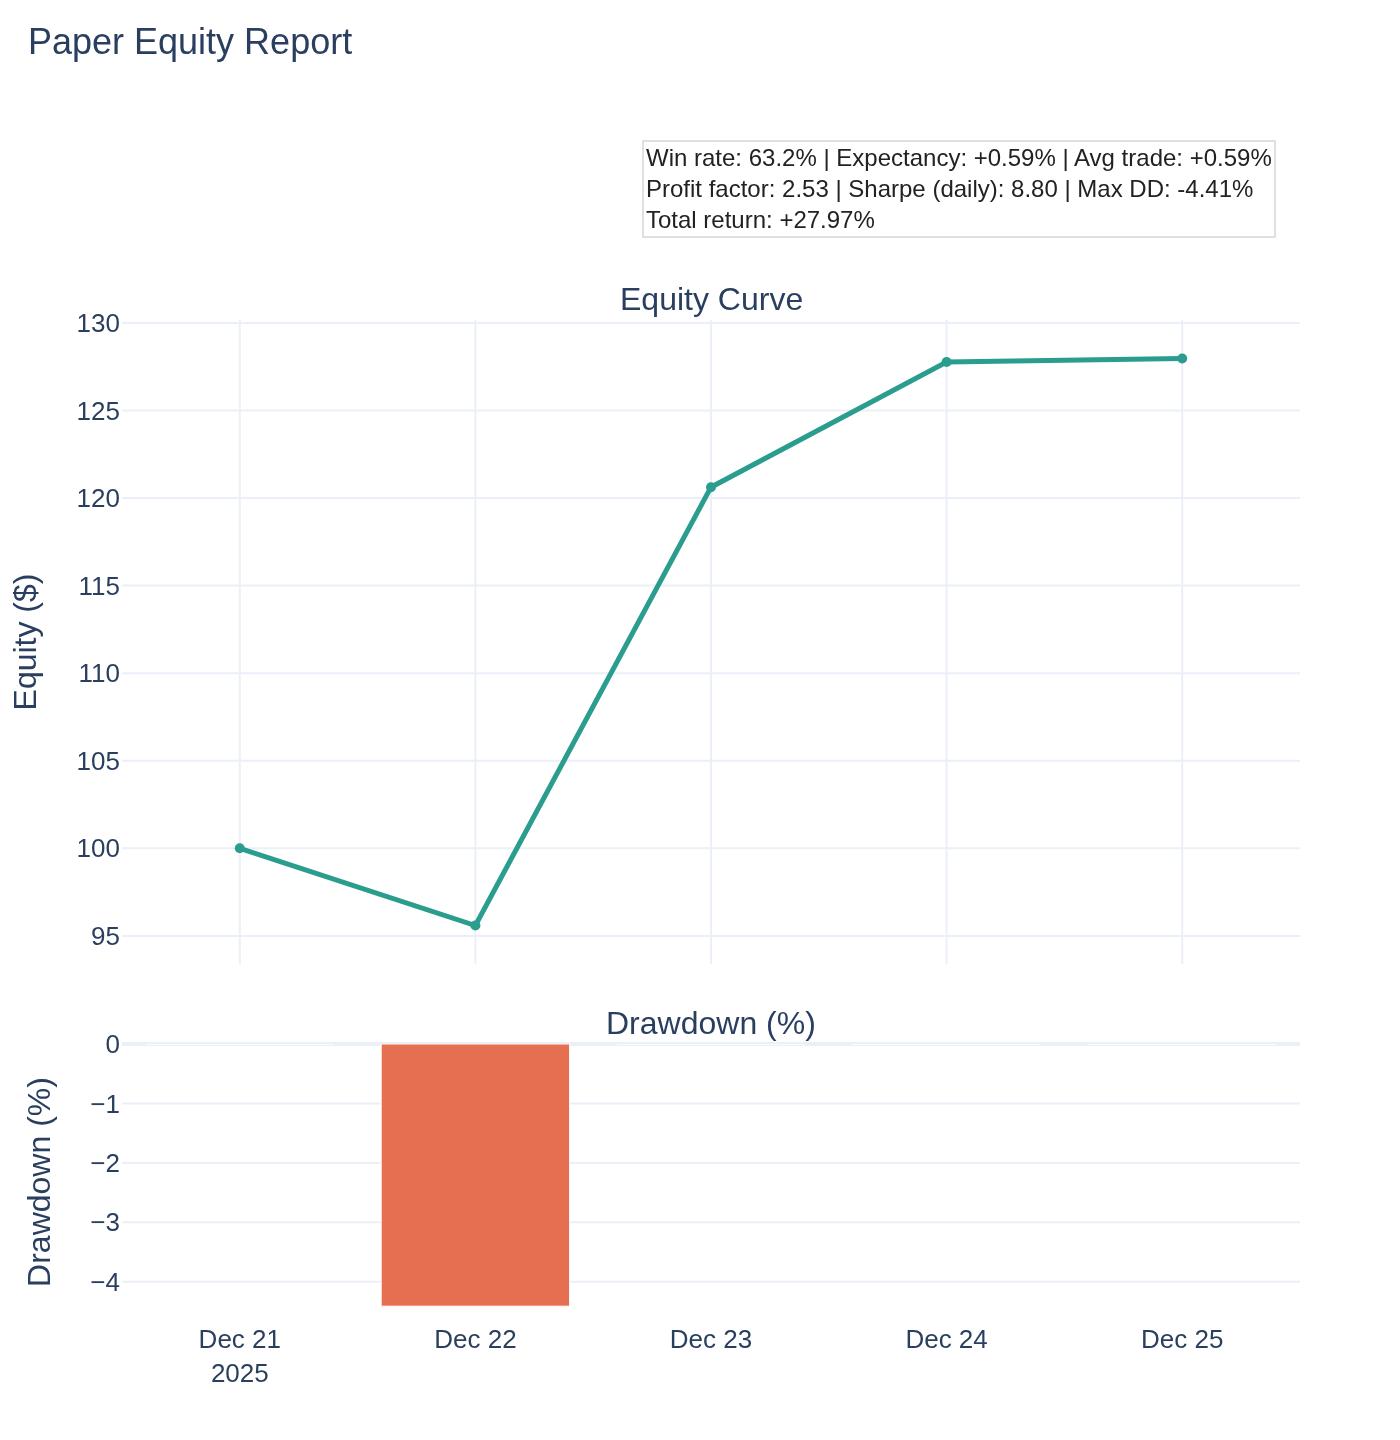
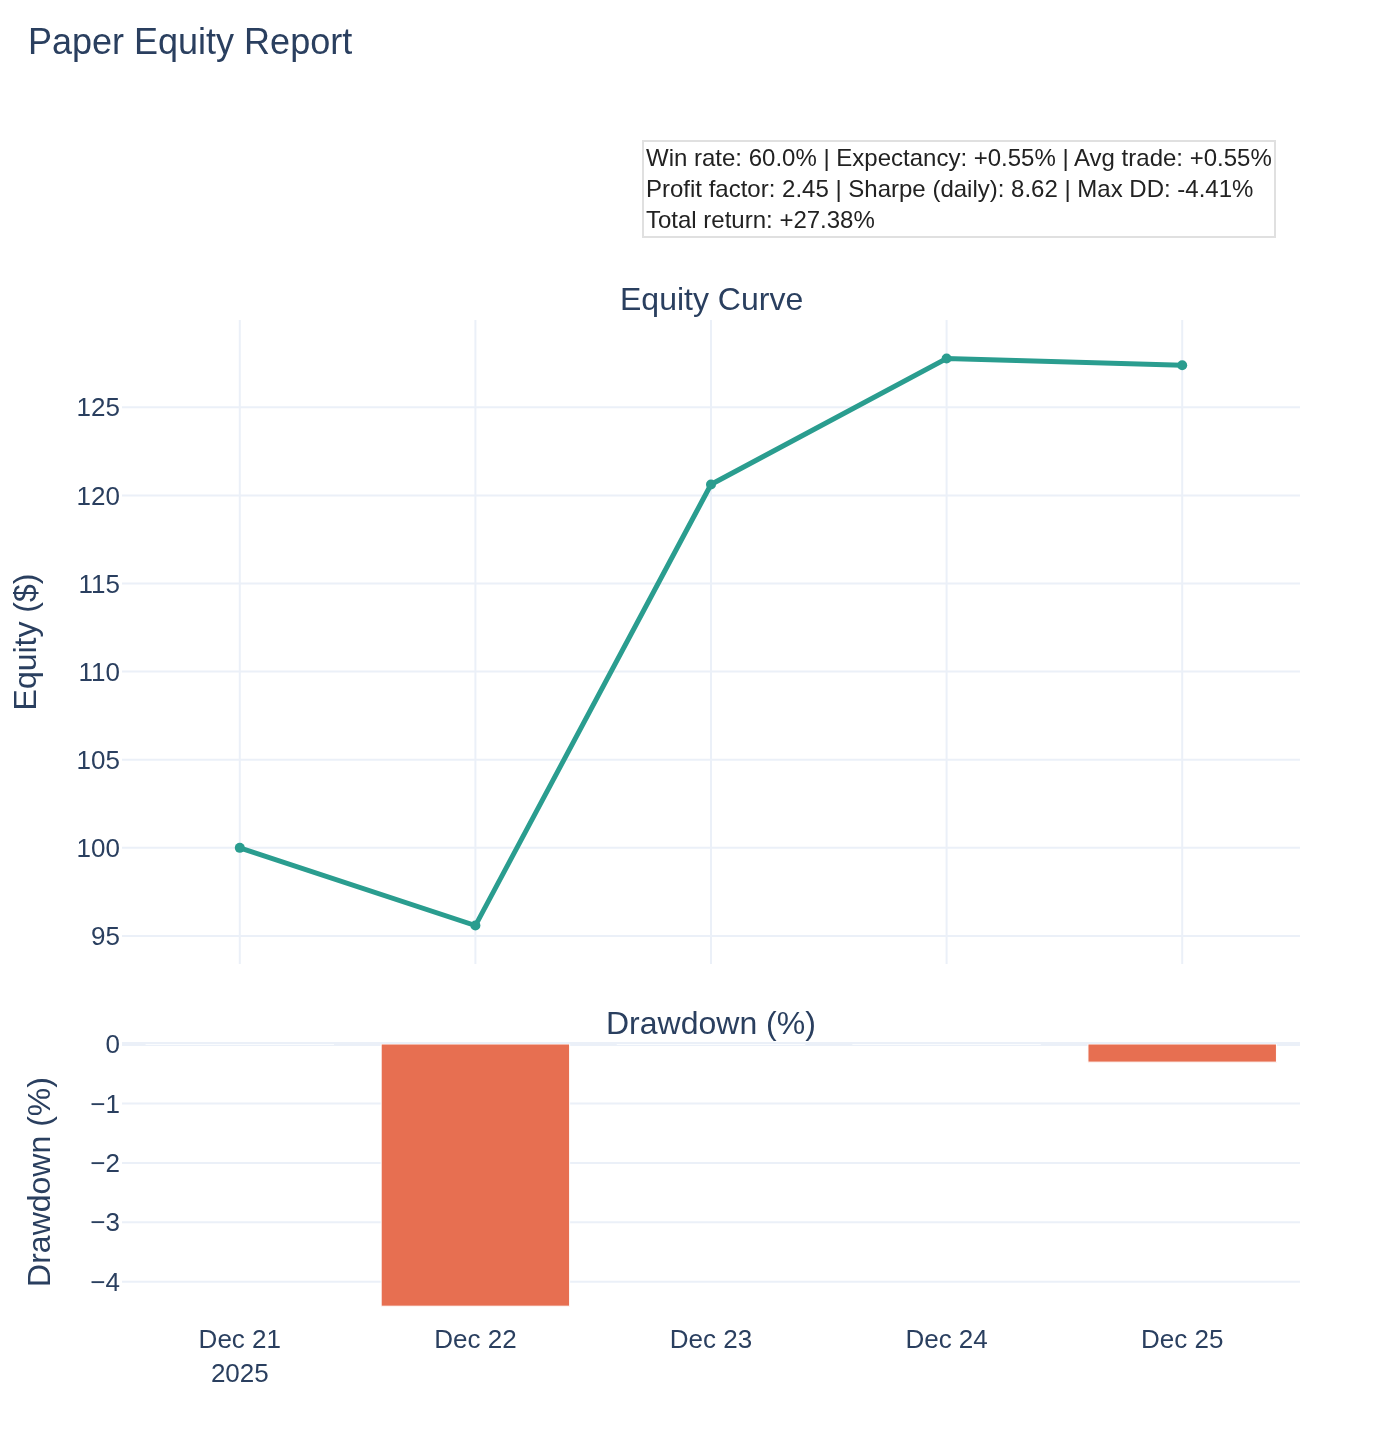
Update paper trades and equity report

diff --git a/reports/paper_equity_report.html b/reports/paper_equity_report.html
@@ -2,6 +2,6 @@
 <head><meta charset="utf-8" /></head>
 <body>
     <div>                        <script type="text/javascript">window.PlotlyConfig = {MathJaxConfig: 'local'};</script>
-        <script charset="utf-8" src="https://cdn.plot.ly/plotly-3.3.0.min.js" integrity="sha256-bO3dS6yCpk9aK4gUpNELtCiDeSYvGYnK7jFI58NQnHI=" crossorigin="anonymous"></script>                <div id="15f34121-5343-467d-8a46-53dc2a510da3" class="plotly-graph-div" style="height:720px; width:100%;"></div>            <script type="text/javascript">                window.PLOTLYENV=window.PLOTLYENV || {};                                if (document.getElementById("15f34121-5343-467d-8a46-53dc2a510da3")) {                    Plotly.newPlot(                        "15f34121-5343-467d-8a46-53dc2a510da3",                        [{"line":{"color":"#2a9d8f","width":2.5},"marker":{"color":"#2a9d8f","size":5},"mode":"lines+markers","name":"Equity","x":["2025-12-21","2025-12-22","2025-12-23","2025-12-24","2025-12-25"],"y":{"dtype":"f8","bdata":"AAAAAAAAWUD2KFyPwuVXQEjhehSuJ15A4noUrkfxX0CuR+F6FP5fQA=="},"type":"scatter","xaxis":"x","yaxis":"y"},{"marker":{"color":"#e76f51"},"name":"Drawdown","x":["2025-12-21","2025-12-22","2025-12-23","2025-12-24","2025-12-25"],"y":{"dtype":"f8","bdata":"AAAAAAAAAACgcD0K16MRwAAAAAAAAAAAAAAAAAAAAAAAAAAAAAAAAA=="},"type":"bar","xaxis":"x2","yaxis":"y2"}],                        {"template":{"data":{"barpolar":[{"marker":{"line":{"color":"white","width":0.5},"pattern":{"fillmode":"overlay","size":10,"solidity":0.2}},"type":"barpolar"}],"bar":[{"error_x":{"color":"#2a3f5f"},"error_y":{"color":"#2a3f5f"},"marker":{"line":{"color":"white","width":0.5},"pattern":{"fillmode":"overlay","size":10,"solidity":0.2}},"type":"bar"}],"carpet":[{"aaxis":{"endlinecolor":"#2a3f5f","gridcolor":"#C8D4E3","linecolor":"#C8D4E3","minorgridcolor":"#C8D4E3","startlinecolor":"#2a3f5f"},"baxis":{"endlinecolor":"#2a3f5f","gridcolor":"#C8D4E3","linecolor":"#C8D4E3","minorgridcolor":"#C8D4E3","startlinecolor":"#2a3f5f"},"type":"carpet"}],"choropleth":[{"colorbar":{"outlinewidth":0,"ticks":""},"type":"choropleth"}],"contourcarpet":[{"colorbar":{"outlinewidth":0,"ticks":""},"type":"contourcarpet"}],"contour":[{"colorbar":{"outlinewidth":0,"ticks":""},"colorscale":[[0.0,"#0d0887"],[0.1111111111111111,"#46039f"],[0.2222222222222222,"#7201a8"],[0.3333333333333333,"#9c179e"],[0.4444444444444444,"#bd3786"],[0.5555555555555556,"#d8576b"],[0.6666666666666666,"#ed7953"],[0.7777777777777778,"#fb9f3a"],[0.8888888888888888,"#fdca26"],[1.0,"#f0f921"]],"type":"contour"}],"heatmap":[{"colorbar":{"outlinewidth":0,"ticks":""},"colorscale":[[0.0,"#0d0887"],[0.1111111111111111,"#46039f"],[0.2222222222222222,"#7201a8"],[0.3333333333333333,"#9c179e"],[0.4444444444444444,"#bd3786"],[0.5555555555555556,"#d8576b"],[0.6666666666666666,"#ed7953"],[0.7777777777777778,"#fb9f3a"],[0.8888888888888888,"#fdca26"],[1.0,"#f0f921"]],"type":"heatmap"}],"histogram2dcontour":[{"colorbar":{"outlinewidth":0,"ticks":""},"colorscale":[[0.0,"#0d0887"],[0.1111111111111111,"#46039f"],[0.2222222222222222,"#7201a8"],[0.3333333333333333,"#9c179e"],[0.4444444444444444,"#bd3786"],[0.5555555555555556,"#d8576b"],[0.6666666666666666,"#ed7953"],[0.7777777777777778,"#fb9f3a"],[0.8888888888888888,"#fdca26"],[1.0,"#f0f921"]],"type":"histogram2dcontour"}],"histogram2d":[{"colorbar":{"outlinewidth":0,"ticks":""},"colorscale":[[0.0,"#0d0887"],[0.1111111111111111,"#46039f"],[0.2222222222222222,"#7201a8"],[0.3333333333333333,"#9c179e"],[0.4444444444444444,"#bd3786"],[0.5555555555555556,"#d8576b"],[0.6666666666666666,"#ed7953"],[0.7777777777777778,"#fb9f3a"],[0.8888888888888888,"#fdca26"],[1.0,"#f0f921"]],"type":"histogram2d"}],"histogram":[{"marker":{"pattern":{"fillmode":"overlay","size":10,"solidity":0.2}},"type":"histogram"}],"mesh3d":[{"colorbar":{"outlinewidth":0,"ticks":""},"type":"mesh3d"}],"parcoords":[{"line":{"colorbar":{"outlinewidth":0,"ticks":""}},"type":"parcoords"}],"pie":[{"automargin":true,"type":"pie"}],"scatter3d":[{"line":{"colorbar":{"outlinewidth":0,"ticks":""}},"marker":{"colorbar":{"outlinewidth":0,"ticks":""}},"type":"scatter3d"}],"scattercarpet":[{"marker":{"colorbar":{"outlinewidth":0,"ticks":""}},"type":"scattercarpet"}],"scattergeo":[{"marker":{"colorbar":{"outlinewidth":0,"ticks":""}},"type":"scattergeo"}],"scattergl":[{"marker":{"colorbar":{"outlinewidth":0,"ticks":""}},"type":"scattergl"}],"scattermapbox":[{"marker":{"colorbar":{"outlinewidth":0,"ticks":""}},"type":"scattermapbox"}],"scattermap":[{"marker":{"colorbar":{"outlinewidth":0,"ticks":""}},"type":"scattermap"}],"scatterpolargl":[{"marker":{"colorbar":{"outlinewidth":0,"ticks":""}},"type":"scatterpolargl"}],"scatterpolar":[{"marker":{"colorbar":{"outlinewidth":0,"ticks":""}},"type":"scatterpolar"}],"scatter":[{"fillpattern":{"fillmode":"overlay","size":10,"solidity":0.2},"type":"scatter"}],"scatterternary":[{"marker":{"colorbar":{"outlinewidth":0,"ticks":""}},"type":"scatterternary"}],"surface":[{"colorbar":{"outlinewidth":0,"ticks":""},"colorscale":[[0.0,"#0d0887"],[0.1111111111111111,"#46039f"],[0.2222222222222222,"#7201a8"],[0.3333333333333333,"#9c179e"],[0.4444444444444444,"#bd3786"],[0.5555555555555556,"#d8576b"],[0.6666666666666666,"#ed7953"],[0.7777777777777778,"#fb9f3a"],[0.8888888888888888,"#fdca26"],[1.0,"#f0f921"]],"type":"surface"}],"table":[{"cells":{"fill":{"color":"#EBF0F8"},"line":{"color":"white"}},"header":{"fill":{"color":"#C8D4E3"},"line":{"color":"white"}},"type":"table"}]},"layout":{"annotationdefaults":{"arrowcolor":"#2a3f5f","arrowhead":0,"arrowwidth":1},"autotypenumbers":"strict","coloraxis":{"colorbar":{"outlinewidth":0,"ticks":""}},"colorscale":{"diverging":[[0,"#8e0152"],[0.1,"#c51b7d"],[0.2,"#de77ae"],[0.3,"#f1b6da"],[0.4,"#fde0ef"],[0.5,"#f7f7f7"],[0.6,"#e6f5d0"],[0.7,"#b8e186"],[0.8,"#7fbc41"],[0.9,"#4d9221"],[1,"#276419"]],"sequential":[[0.0,"#0d0887"],[0.1111111111111111,"#46039f"],[0.2222222222222222,"#7201a8"],[0.3333333333333333,"#9c179e"],[0.4444444444444444,"#bd3786"],[0.5555555555555556,"#d8576b"],[0.6666666666666666,"#ed7953"],[0.7777777777777778,"#fb9f3a"],[0.8888888888888888,"#fdca26"],[1.0,"#f0f921"]],"sequentialminus":[[0.0,"#0d0887"],[0.1111111111111111,"#46039f"],[0.2222222222222222,"#7201a8"],[0.3333333333333333,"#9c179e"],[0.4444444444444444,"#bd3786"],[0.5555555555555556,"#d8576b"],[0.6666666666666666,"#ed7953"],[0.7777777777777778,"#fb9f3a"],[0.8888888888888888,"#fdca26"],[1.0,"#f0f921"]]},"colorway":["#636efa","#EF553B","#00cc96","#ab63fa","#FFA15A","#19d3f3","#FF6692","#B6E880","#FF97FF","#FECB52"],"font":{"color":"#2a3f5f"},"geo":{"bgcolor":"white","lakecolor":"white","landcolor":"white","showlakes":true,"showland":true,"subunitcolor":"#C8D4E3"},"hoverlabel":{"align":"left"},"hovermode":"closest","mapbox":{"style":"light"},"paper_bgcolor":"white","plot_bgcolor":"white","polar":{"angularaxis":{"gridcolor":"#EBF0F8","linecolor":"#EBF0F8","ticks":""},"bgcolor":"white","radialaxis":{"gridcolor":"#EBF0F8","linecolor":"#EBF0F8","ticks":""}},"scene":{"xaxis":{"backgroundcolor":"white","gridcolor":"#DFE8F3","gridwidth":2,"linecolor":"#EBF0F8","showbackground":true,"ticks":"","zerolinecolor":"#EBF0F8"},"yaxis":{"backgroundcolor":"white","gridcolor":"#DFE8F3","gridwidth":2,"linecolor":"#EBF0F8","showbackground":true,"ticks":"","zerolinecolor":"#EBF0F8"},"zaxis":{"backgroundcolor":"white","gridcolor":"#DFE8F3","gridwidth":2,"linecolor":"#EBF0F8","showbackground":true,"ticks":"","zerolinecolor":"#EBF0F8"}},"shapedefaults":{"line":{"color":"#2a3f5f"}},"ternary":{"aaxis":{"gridcolor":"#DFE8F3","linecolor":"#A2B1C6","ticks":""},"baxis":{"gridcolor":"#DFE8F3","linecolor":"#A2B1C6","ticks":""},"bgcolor":"white","caxis":{"gridcolor":"#DFE8F3","linecolor":"#A2B1C6","ticks":""}},"title":{"x":0.05},"xaxis":{"automargin":true,"gridcolor":"#EBF0F8","linecolor":"#EBF0F8","ticks":"","title":{"standoff":15},"zerolinecolor":"#EBF0F8","zerolinewidth":2},"yaxis":{"automargin":true,"gridcolor":"#EBF0F8","linecolor":"#EBF0F8","ticks":"","title":{"standoff":15},"zerolinecolor":"#EBF0F8","zerolinewidth":2}}},"xaxis":{"anchor":"y","domain":[0.0,1.0],"matches":"x2","showticklabels":false},"yaxis":{"anchor":"x","domain":[0.35600000000000004,1.0],"title":{"text":"Equity ($)"}},"xaxis2":{"anchor":"y2","domain":[0.0,1.0]},"yaxis2":{"anchor":"x2","domain":[0.0,0.276],"title":{"text":"Drawdown (%)"}},"annotations":[{"font":{"size":16},"showarrow":false,"text":"Equity Curve","x":0.5,"xanchor":"center","xref":"paper","y":1.0,"yanchor":"bottom","yref":"paper"},{"font":{"size":16},"showarrow":false,"text":"Drawdown (%)","x":0.5,"xanchor":"center","xref":"paper","y":0.276,"yanchor":"bottom","yref":"paper"},{"align":"left","bgcolor":"rgba(255,255,255,0.9)","bordercolor":"#e0e0e0","borderwidth":1,"font":{"color":"#222","size":12},"showarrow":false,"text":"Win rate: 63.2% | Expectancy: +0.59% | Avg trade: +0.59%\u003cbr\u003eProfit factor: 2.53 | Sharpe (daily): 8.80 | Max DD: -4.41%\u003cbr\u003eTotal return: +27.97%","x":0.98,"xanchor":"right","xref":"paper","y":1.18,"yanchor":"top","yref":"paper"}],"title":{"text":"Paper Equity Report","x":0.02,"xanchor":"left","y":0.98,"yanchor":"top"},"margin":{"l":50,"r":50,"t":160,"b":60},"font":{"size":13},"height":720,"showlegend":false},                        {"responsive": true}                    )                };            </script>        </div>
+        <script charset="utf-8" src="https://cdn.plot.ly/plotly-3.3.0.min.js" integrity="sha256-bO3dS6yCpk9aK4gUpNELtCiDeSYvGYnK7jFI58NQnHI=" crossorigin="anonymous"></script>                <div id="7cb684ea-11a1-4bb3-af99-59373a1600ba" class="plotly-graph-div" style="height:720px; width:100%;"></div>            <script type="text/javascript">                window.PLOTLYENV=window.PLOTLYENV || {};                                if (document.getElementById("7cb684ea-11a1-4bb3-af99-59373a1600ba")) {                    Plotly.newPlot(                        "7cb684ea-11a1-4bb3-af99-59373a1600ba",                        [{"line":{"color":"#2a9d8f","width":2.5},"marker":{"color":"#2a9d8f","size":5},"mode":"lines+markers","name":"Equity","x":["2025-12-21","2025-12-22","2025-12-23","2025-12-24","2025-12-25"],"y":{"dtype":"f8","bdata":"AAAAAAAAWUD2KFyPwuVXQEjhehSuJ15A4noUrkfxX0C4HoXrUdhfQA=="},"type":"scatter","xaxis":"x","yaxis":"y"},{"marker":{"color":"#e76f51"},"name":"Drawdown","x":["2025-12-21","2025-12-22","2025-12-23","2025-12-24","2025-12-25"],"y":{"dtype":"f8","bdata":"AAAAAAAAAACgcD0K16MRwAAAAAAAAAAAAAAAAAAAAAA\u002f8SB0\u002fIjTvw=="},"type":"bar","xaxis":"x2","yaxis":"y2"}],                        {"template":{"data":{"barpolar":[{"marker":{"line":{"color":"white","width":0.5},"pattern":{"fillmode":"overlay","size":10,"solidity":0.2}},"type":"barpolar"}],"bar":[{"error_x":{"color":"#2a3f5f"},"error_y":{"color":"#2a3f5f"},"marker":{"line":{"color":"white","width":0.5},"pattern":{"fillmode":"overlay","size":10,"solidity":0.2}},"type":"bar"}],"carpet":[{"aaxis":{"endlinecolor":"#2a3f5f","gridcolor":"#C8D4E3","linecolor":"#C8D4E3","minorgridcolor":"#C8D4E3","startlinecolor":"#2a3f5f"},"baxis":{"endlinecolor":"#2a3f5f","gridcolor":"#C8D4E3","linecolor":"#C8D4E3","minorgridcolor":"#C8D4E3","startlinecolor":"#2a3f5f"},"type":"carpet"}],"choropleth":[{"colorbar":{"outlinewidth":0,"ticks":""},"type":"choropleth"}],"contourcarpet":[{"colorbar":{"outlinewidth":0,"ticks":""},"type":"contourcarpet"}],"contour":[{"colorbar":{"outlinewidth":0,"ticks":""},"colorscale":[[0.0,"#0d0887"],[0.1111111111111111,"#46039f"],[0.2222222222222222,"#7201a8"],[0.3333333333333333,"#9c179e"],[0.4444444444444444,"#bd3786"],[0.5555555555555556,"#d8576b"],[0.6666666666666666,"#ed7953"],[0.7777777777777778,"#fb9f3a"],[0.8888888888888888,"#fdca26"],[1.0,"#f0f921"]],"type":"contour"}],"heatmap":[{"colorbar":{"outlinewidth":0,"ticks":""},"colorscale":[[0.0,"#0d0887"],[0.1111111111111111,"#46039f"],[0.2222222222222222,"#7201a8"],[0.3333333333333333,"#9c179e"],[0.4444444444444444,"#bd3786"],[0.5555555555555556,"#d8576b"],[0.6666666666666666,"#ed7953"],[0.7777777777777778,"#fb9f3a"],[0.8888888888888888,"#fdca26"],[1.0,"#f0f921"]],"type":"heatmap"}],"histogram2dcontour":[{"colorbar":{"outlinewidth":0,"ticks":""},"colorscale":[[0.0,"#0d0887"],[0.1111111111111111,"#46039f"],[0.2222222222222222,"#7201a8"],[0.3333333333333333,"#9c179e"],[0.4444444444444444,"#bd3786"],[0.5555555555555556,"#d8576b"],[0.6666666666666666,"#ed7953"],[0.7777777777777778,"#fb9f3a"],[0.8888888888888888,"#fdca26"],[1.0,"#f0f921"]],"type":"histogram2dcontour"}],"histogram2d":[{"colorbar":{"outlinewidth":0,"ticks":""},"colorscale":[[0.0,"#0d0887"],[0.1111111111111111,"#46039f"],[0.2222222222222222,"#7201a8"],[0.3333333333333333,"#9c179e"],[0.4444444444444444,"#bd3786"],[0.5555555555555556,"#d8576b"],[0.6666666666666666,"#ed7953"],[0.7777777777777778,"#fb9f3a"],[0.8888888888888888,"#fdca26"],[1.0,"#f0f921"]],"type":"histogram2d"}],"histogram":[{"marker":{"pattern":{"fillmode":"overlay","size":10,"solidity":0.2}},"type":"histogram"}],"mesh3d":[{"colorbar":{"outlinewidth":0,"ticks":""},"type":"mesh3d"}],"parcoords":[{"line":{"colorbar":{"outlinewidth":0,"ticks":""}},"type":"parcoords"}],"pie":[{"automargin":true,"type":"pie"}],"scatter3d":[{"line":{"colorbar":{"outlinewidth":0,"ticks":""}},"marker":{"colorbar":{"outlinewidth":0,"ticks":""}},"type":"scatter3d"}],"scattercarpet":[{"marker":{"colorbar":{"outlinewidth":0,"ticks":""}},"type":"scattercarpet"}],"scattergeo":[{"marker":{"colorbar":{"outlinewidth":0,"ticks":""}},"type":"scattergeo"}],"scattergl":[{"marker":{"colorbar":{"outlinewidth":0,"ticks":""}},"type":"scattergl"}],"scattermapbox":[{"marker":{"colorbar":{"outlinewidth":0,"ticks":""}},"type":"scattermapbox"}],"scattermap":[{"marker":{"colorbar":{"outlinewidth":0,"ticks":""}},"type":"scattermap"}],"scatterpolargl":[{"marker":{"colorbar":{"outlinewidth":0,"ticks":""}},"type":"scatterpolargl"}],"scatterpolar":[{"marker":{"colorbar":{"outlinewidth":0,"ticks":""}},"type":"scatterpolar"}],"scatter":[{"fillpattern":{"fillmode":"overlay","size":10,"solidity":0.2},"type":"scatter"}],"scatterternary":[{"marker":{"colorbar":{"outlinewidth":0,"ticks":""}},"type":"scatterternary"}],"surface":[{"colorbar":{"outlinewidth":0,"ticks":""},"colorscale":[[0.0,"#0d0887"],[0.1111111111111111,"#46039f"],[0.2222222222222222,"#7201a8"],[0.3333333333333333,"#9c179e"],[0.4444444444444444,"#bd3786"],[0.5555555555555556,"#d8576b"],[0.6666666666666666,"#ed7953"],[0.7777777777777778,"#fb9f3a"],[0.8888888888888888,"#fdca26"],[1.0,"#f0f921"]],"type":"surface"}],"table":[{"cells":{"fill":{"color":"#EBF0F8"},"line":{"color":"white"}},"header":{"fill":{"color":"#C8D4E3"},"line":{"color":"white"}},"type":"table"}]},"layout":{"annotationdefaults":{"arrowcolor":"#2a3f5f","arrowhead":0,"arrowwidth":1},"autotypenumbers":"strict","coloraxis":{"colorbar":{"outlinewidth":0,"ticks":""}},"colorscale":{"diverging":[[0,"#8e0152"],[0.1,"#c51b7d"],[0.2,"#de77ae"],[0.3,"#f1b6da"],[0.4,"#fde0ef"],[0.5,"#f7f7f7"],[0.6,"#e6f5d0"],[0.7,"#b8e186"],[0.8,"#7fbc41"],[0.9,"#4d9221"],[1,"#276419"]],"sequential":[[0.0,"#0d0887"],[0.1111111111111111,"#46039f"],[0.2222222222222222,"#7201a8"],[0.3333333333333333,"#9c179e"],[0.4444444444444444,"#bd3786"],[0.5555555555555556,"#d8576b"],[0.6666666666666666,"#ed7953"],[0.7777777777777778,"#fb9f3a"],[0.8888888888888888,"#fdca26"],[1.0,"#f0f921"]],"sequentialminus":[[0.0,"#0d0887"],[0.1111111111111111,"#46039f"],[0.2222222222222222,"#7201a8"],[0.3333333333333333,"#9c179e"],[0.4444444444444444,"#bd3786"],[0.5555555555555556,"#d8576b"],[0.6666666666666666,"#ed7953"],[0.7777777777777778,"#fb9f3a"],[0.8888888888888888,"#fdca26"],[1.0,"#f0f921"]]},"colorway":["#636efa","#EF553B","#00cc96","#ab63fa","#FFA15A","#19d3f3","#FF6692","#B6E880","#FF97FF","#FECB52"],"font":{"color":"#2a3f5f"},"geo":{"bgcolor":"white","lakecolor":"white","landcolor":"white","showlakes":true,"showland":true,"subunitcolor":"#C8D4E3"},"hoverlabel":{"align":"left"},"hovermode":"closest","mapbox":{"style":"light"},"paper_bgcolor":"white","plot_bgcolor":"white","polar":{"angularaxis":{"gridcolor":"#EBF0F8","linecolor":"#EBF0F8","ticks":""},"bgcolor":"white","radialaxis":{"gridcolor":"#EBF0F8","linecolor":"#EBF0F8","ticks":""}},"scene":{"xaxis":{"backgroundcolor":"white","gridcolor":"#DFE8F3","gridwidth":2,"linecolor":"#EBF0F8","showbackground":true,"ticks":"","zerolinecolor":"#EBF0F8"},"yaxis":{"backgroundcolor":"white","gridcolor":"#DFE8F3","gridwidth":2,"linecolor":"#EBF0F8","showbackground":true,"ticks":"","zerolinecolor":"#EBF0F8"},"zaxis":{"backgroundcolor":"white","gridcolor":"#DFE8F3","gridwidth":2,"linecolor":"#EBF0F8","showbackground":true,"ticks":"","zerolinecolor":"#EBF0F8"}},"shapedefaults":{"line":{"color":"#2a3f5f"}},"ternary":{"aaxis":{"gridcolor":"#DFE8F3","linecolor":"#A2B1C6","ticks":""},"baxis":{"gridcolor":"#DFE8F3","linecolor":"#A2B1C6","ticks":""},"bgcolor":"white","caxis":{"gridcolor":"#DFE8F3","linecolor":"#A2B1C6","ticks":""}},"title":{"x":0.05},"xaxis":{"automargin":true,"gridcolor":"#EBF0F8","linecolor":"#EBF0F8","ticks":"","title":{"standoff":15},"zerolinecolor":"#EBF0F8","zerolinewidth":2},"yaxis":{"automargin":true,"gridcolor":"#EBF0F8","linecolor":"#EBF0F8","ticks":"","title":{"standoff":15},"zerolinecolor":"#EBF0F8","zerolinewidth":2}}},"xaxis":{"anchor":"y","domain":[0.0,1.0],"matches":"x2","showticklabels":false},"yaxis":{"anchor":"x","domain":[0.35600000000000004,1.0],"title":{"text":"Equity ($)"}},"xaxis2":{"anchor":"y2","domain":[0.0,1.0]},"yaxis2":{"anchor":"x2","domain":[0.0,0.276],"title":{"text":"Drawdown (%)"}},"annotations":[{"font":{"size":16},"showarrow":false,"text":"Equity Curve","x":0.5,"xanchor":"center","xref":"paper","y":1.0,"yanchor":"bottom","yref":"paper"},{"font":{"size":16},"showarrow":false,"text":"Drawdown (%)","x":0.5,"xanchor":"center","xref":"paper","y":0.276,"yanchor":"bottom","yref":"paper"},{"align":"left","bgcolor":"rgba(255,255,255,0.9)","bordercolor":"#e0e0e0","borderwidth":1,"font":{"color":"#222","size":12},"showarrow":false,"text":"Win rate: 60.0% | Expectancy: +0.55% | Avg trade: +0.55%\u003cbr\u003eProfit factor: 2.45 | Sharpe (daily): 8.62 | Max DD: -4.41%\u003cbr\u003eTotal return: +27.38%","x":0.98,"xanchor":"right","xref":"paper","y":1.18,"yanchor":"top","yref":"paper"}],"title":{"text":"Paper Equity Report","x":0.02,"xanchor":"left","y":0.98,"yanchor":"top"},"margin":{"l":50,"r":50,"t":160,"b":60},"font":{"size":13},"height":720,"showlegend":false},                        {"responsive": true}                    )                };            </script>        </div>
 </body>
 </html>
